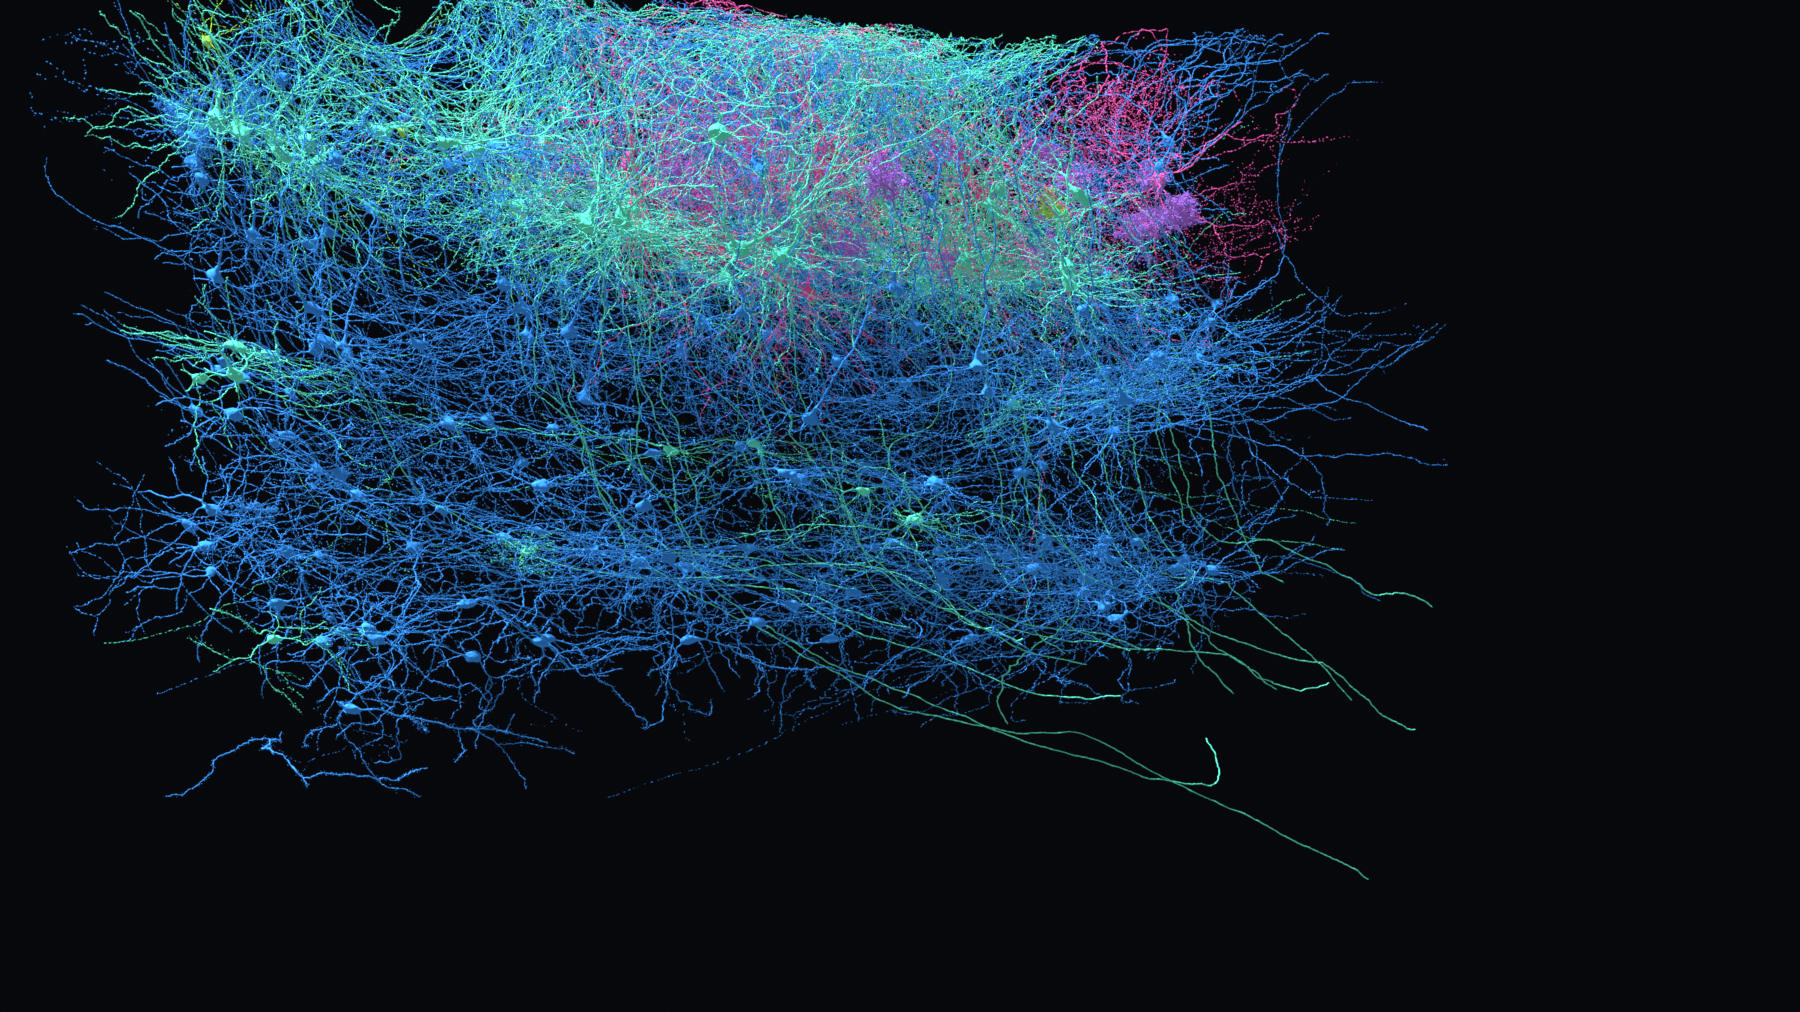
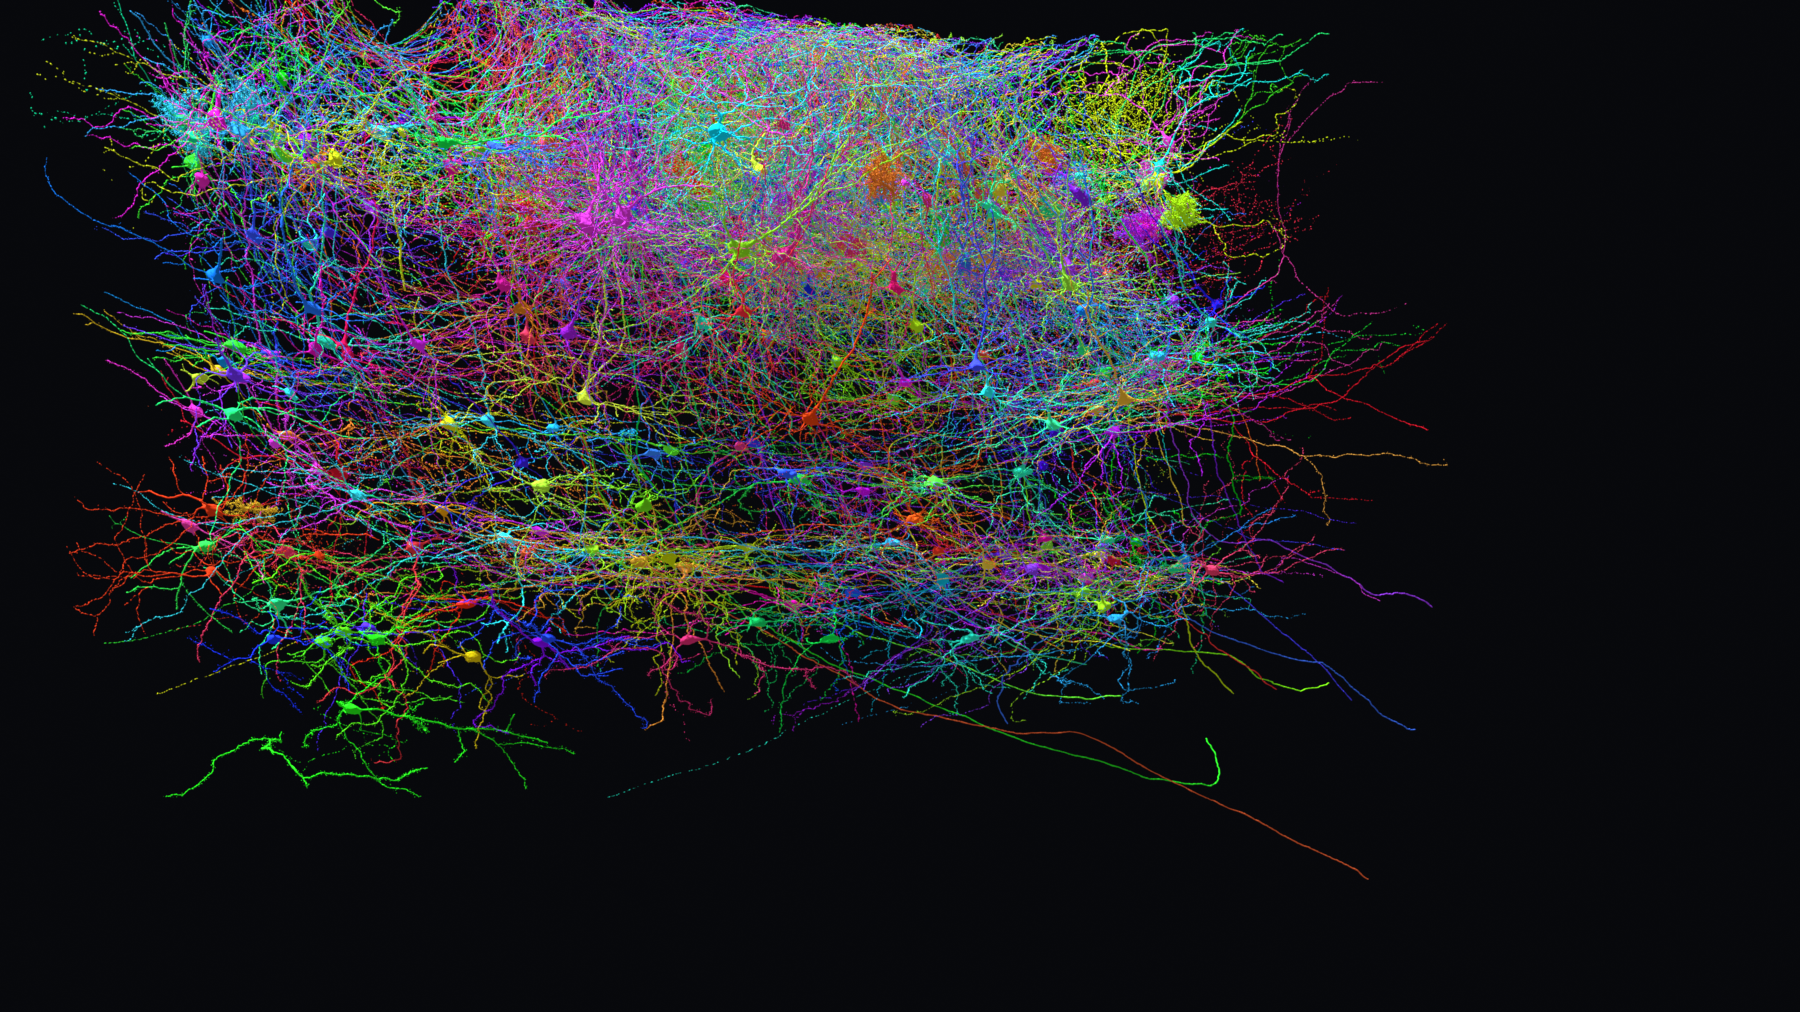
Colour the homepage card render per cell, not per type
The card was dominated by one blue, because 161 of the 256 cells are pyramidal
and the type palette is doing its job. A banner has no legend, so type colours
buy nothing there and cost the image its variety.

--random-colours gives every cell its own hue, stepped by the golden angle
rather than drawn at random: random hues clump, leaving several cells nearly
the same colour while whole sectors of the wheel go unused. Saturation and
value stay in the range the rest of the palette lives in so it still looks like
this project.

The alt text no longer names types. Describing "blue pyramidal cells" in a
randomly coloured image would be describing a key that does not exist.

This flag is decoration and says so in its own help text: it must never be used
for a figure that carries a legend.

diff --git a/index.html b/index.html
@@ -135,7 +135,7 @@
           <article class="card card--help">
             <div class="card__media">
               <span class="card__flag">Newest dataset</span>
-              <img src="assets/images/mec_banner.jpg" alt="Hundreds of reconstructed neurons from the mouse medial entorhinal cortex, blue pyramidal cells below a band of green stellate cells and pink interneurons, filling the imaged block" />
+              <img src="assets/images/mec_banner.jpg" alt="Several hundred reconstructed neurons from the mouse medial entorhinal cortex, each drawn in its own colour, their dendrites overlapping into a dense tangle that fills the imaged block" />
             </div>
             <div class="card__top">
               <h2>Medial Entorhinal Cortex</h2>            </div>

diff --git a/tools/render_mec_population.py b/tools/render_mec_population.py
@@ -23,6 +23,7 @@ import argparse
 import json
 import math
 import os
+import random
 import sys
 
 import bpy
@@ -105,11 +106,33 @@ def import_cell(path):
     return obj
 
 
-def material_for(cell_type):
-    name = f"type_{cell_type}"
+def random_colour(i, seed):
+    """A distinct colour per cell, spread evenly round the hue wheel.
+
+    Golden angle stepping rather than random hues: drawing hues at random
+    clumps them, so a few cells end up nearly the same colour while whole
+    sectors of the wheel go unused. Saturation and value stay in the range the
+    rest of the palette lives in, so the banner still looks like this project
+    and not like a test card.
+
+    This is DECORATION. It must never be used for a figure with a legend,
+    because a colour here means nothing at all.
+    """
+    import colorsys
+    rng = random.Random(seed * 9973 + i)
+    h = ((seed * 0.11 + i * 0.6180339887) % 1.0)
+    sat = 0.72 + rng.random() * 0.22
+    val = 0.86 + rng.random() * 0.14
+    r, g, b = colorsys.hsv_to_rgb(h, sat, val)
+    return tuple(srgb_to_linear(c) for c in (r, g, b))
+
+
+
+def material_for(cell_type, rgb=None, key=None):
+    name = key or f"type_{cell_type}"
     if name in bpy.data.materials:
         return bpy.data.materials[name]
-    rgb = TYPE_COLOUR.get(cell_type, (0.8, 0.8, 0.8))
+    rgb = rgb if rgb is not None else TYPE_COLOUR.get(cell_type, (0.8, 0.8, 0.8))
     mat = bpy.data.materials.new(name)
     mat.use_nodes = True
     bsdf = mat.node_tree.nodes["Principled BSDF"]
@@ -262,6 +285,10 @@ def main():
     # --cycles-device and --cycles-print-stats and rejects the abbreviation
     # as ambiguous, before the script ever runs.
     ap.add_argument("--depth-bins", type=int, default=14)
+    ap.add_argument("--random-colours", type=int, default=0, metavar="SEED",
+                    help="give every cell its own colour instead of a type "
+                         "colour; for a decorative banner ONLY, never for a "
+                         "figure that carries a legend")
     ap.add_argument("--no-cage", action="store_true",
                     help="drop the wireframe block; for a feature image where "
                          "the cells are the subject and a box would only box "
@@ -323,7 +350,12 @@ def main():
         if obj is None:
             continue
         obj.data.materials.clear()
-        obj.data.materials.append(material_for(c["cell_type"]))
+        if args.random_colours:
+            obj.data.materials.append(material_for(
+                c["cell_type"], rgb=random_colour(len(loaded), args.random_colours),
+                key=f"rand_{len(loaded)}"))
+        else:
+            obj.data.materials.append(material_for(c["cell_type"]))
         for poly in obj.data.polygons:
             poly.use_smooth = True
         obj.parent = root
